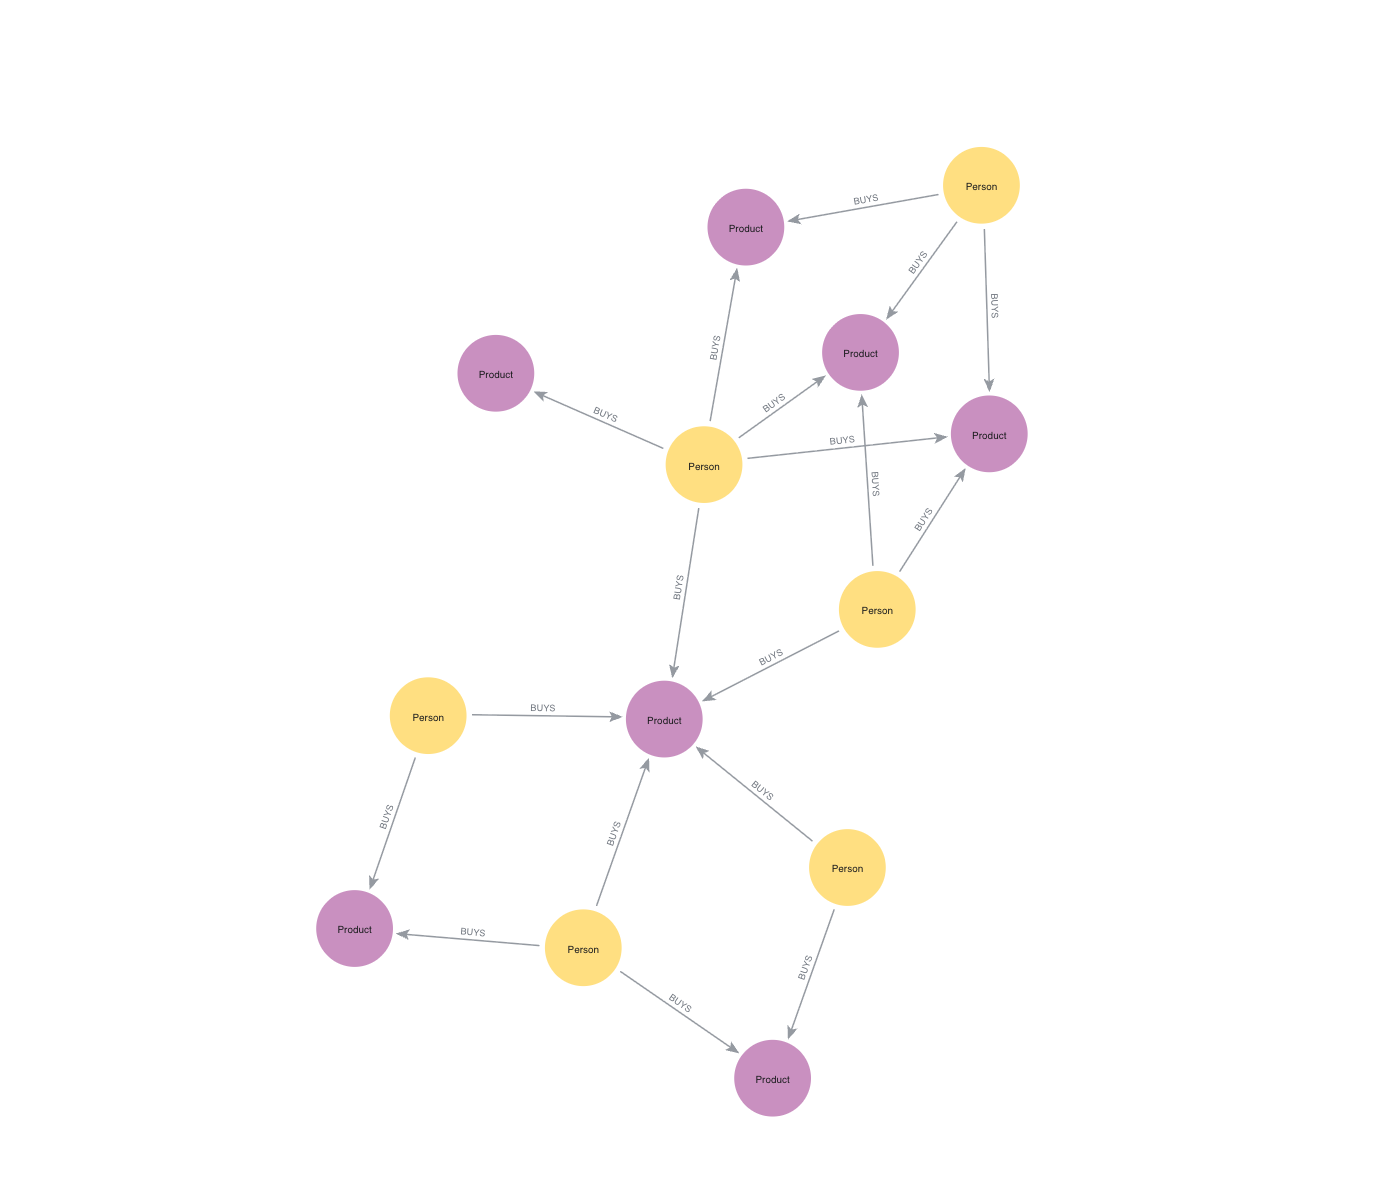
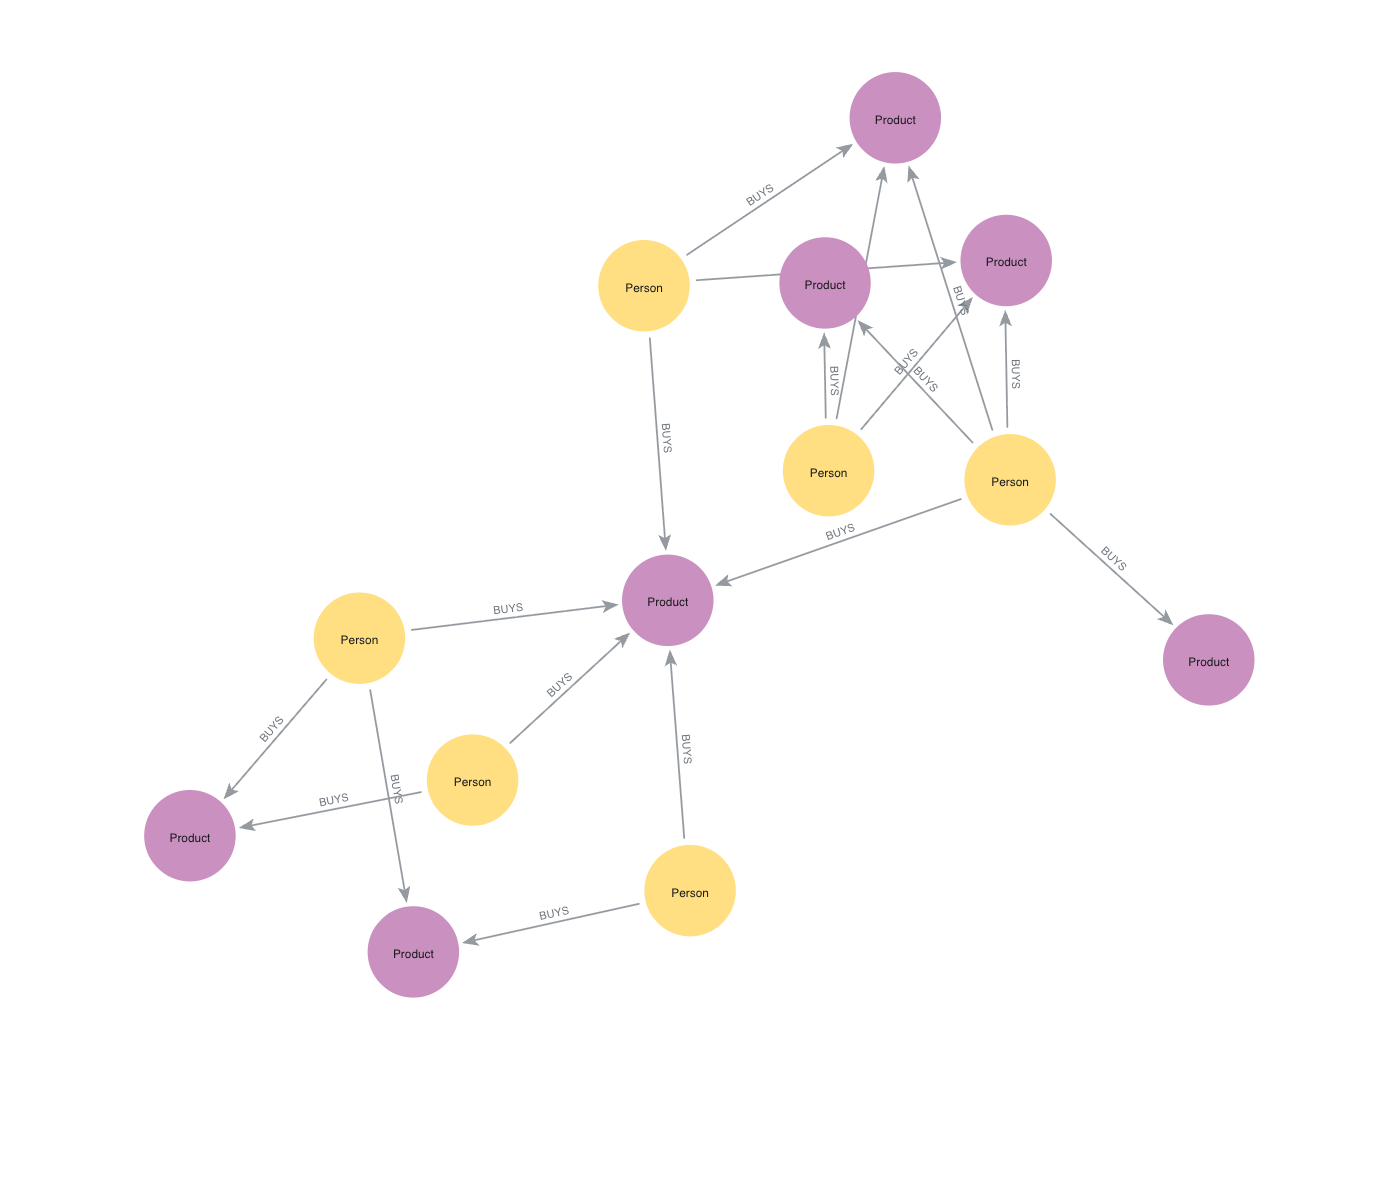
Build the README graph image from a GQL CREATE query
The example_graph spec now uses from_gql_create with the neo4j-example's
CREATE query instead of a live Neo4j database, so all docs images
regenerate without any database. Drops the now-unused env and teardown
machinery from the image specs.

diff --git a/scripts/regenerate_docs_images.py b/scripts/regenerate_docs_images.py
@@ -2,24 +2,23 @@
 """Regenerate the documentation images from the example graphs.
 
 For each image, a disposable JupyterLab server is booted, a distilled cell
-sequence reproducing the corresponding example notebook's data and styling is
-run in headless Chrome, and the rendered graph is saved via
-``GraphWidget.save()``. The images are copied back to their repository locations:
+sequence reproducing the corresponding example's data and styling is run in
+headless Chrome, and the rendered graph is saved via ``GraphWidget.save()``.
+The images are copied back to their repository locations:
 
 * ``docs/antora/modules/ROOT/images/getting-started-graph.svg``         - getting-started toy graph
 * ``docs/antora/modules/ROOT/images/getting-started-graph-colored.svg`` - same graph, colored by caption
-* ``examples/example_graph.png``                                        - README graph (neo4j-example)
+* ``examples/example_graph.png``                                        - README graph (neo4j-example data)
 
-The antora guide images are SVGs (the entire graph, resolution independent);
-the README image is a PNG of the current view. The README image needs a Neo4j
-instance (e.g. ``just local-neo4j-setup``) and is skipped when ``NEO4J_URI``
-is not set. Run from anywhere inside the repo.
+All graphs are built locally without a database: the antora guide images are
+SVGs of the entire graph (resolution independent, transparent background),
+and the README image is a PNG built from the neo4j-example's CREATE query via
+the ``from_gql_create`` GQL integration. Run from anywhere inside the repo.
 """
 
 from __future__ import annotations
 
 import argparse
-import os
 import shutil
 import struct
 import sys
@@ -59,48 +58,12 @@ relationships = [
 VG = VisualizationGraph(nodes=nodes, relationships=relationships)
 """
 
+# The example graph from examples/neo4j-example.ipynb, built without a
+# database via the GQL CREATE integration.
+_EXAMPLE_CREATE_CELLS = """\
+from neo4j_viz.gql_create import from_gql_create
 
-@dataclass(frozen=True)
-class ImageSpec:
-    """One docs image: how to build it and where it lives in the repository."""
-
-    name: str
-    target: Path
-    # Widget canvas size in pixels; for PNG output this is also the expected
-    # image size. SVG output covers the entire graph, so the widget size only
-    # needs to be large enough to mount the widget.
-    size: tuple[int, int]
-    fmt: str = "png"
-    required_env: tuple[str, ...] = ()
-    # Cells up to and including the one that displays the widget. The harness
-    # waits for the widget's canvas before running the generated save cell.
-    cells: tuple[str, ...] = ()
-    # Extra code lines run inside the save cell after the image was written
-    # (e.g. database cleanup); a failure also fails the spec.
-    teardown: tuple[str, ...] = ()
-
-    @property
-    def filename(self) -> str:
-        return f"{self.name}.{self.fmt}"
-
-
-def _neo4j_graph_cells() -> str:
-    return """\
-import os
-
-from neo4j import GraphDatabase, Result, RoutingControl
-from neo4j_viz.neo4j import from_neo4j
-
-URI = os.environ['NEO4J_URI']
-auth = (os.environ.get('NEO4J_USERNAME', 'neo4j'), os.environ.get('NEO4J_PASSWORD', 'password'))
-db = os.environ.get('NEO4J_DB', 'neo4j')
-
-driver = GraphDatabase.driver(URI, auth=auth)
-driver.verify_connectivity()
-
-# Start from a clean slate so repeated runs do not duplicate the example graph.
-driver.execute_query('MATCH (n:Person|Product) DETACH DELETE n RETURN count(n)', database_=db)
-driver.execute_query(
+VG = from_gql_create(
     \"\"\"
     CREATE
      (dan:Person {name: 'Dan'}),
@@ -141,20 +104,29 @@ driver.execute_query(
 
      (elsa)-[:BUYS {amount: 3}]->(chocolate),
      (elsa)-[:BUYS {amount: 3}]->(milk)
-    \"\"\",
-    database_=db,
+    \"\"\"
 )
-
-result = driver.execute_query(
-    'MATCH (n)-[r]->(m) RETURN n,r,m',
-    database_=db,
-    routing_=RoutingControl.READ,
-    result_transformer_=Result.graph,
-)
-print(f'Result graph has: {len(result.nodes)} nodes, {len(result.relationships)} relationships')
-
-VG = from_neo4j(result)
 """
+
+
+@dataclass(frozen=True)
+class ImageSpec:
+    """One docs image: how to build it and where it lives in the repository."""
+
+    name: str
+    target: Path
+    # Widget canvas size in pixels; for PNG output this is also the expected
+    # image size. SVG output covers the entire graph, so the widget size only
+    # needs to be large enough to mount the widget.
+    size: tuple[int, int]
+    fmt: str = "png"
+    # Cells up to and including the one that displays the widget. The harness
+    # waits for the widget's canvas before running the generated save cell.
+    cells: tuple[str, ...] = ()
+
+    @property
+    def filename(self) -> str:
+        return f"{self.name}.{self.fmt}"
 
 
 def _render_cell(size: tuple[int, int]) -> str:
@@ -165,9 +137,6 @@ def _render_cell(size: tuple[int, int]) -> str:
 
 
 def _save_cell(spec: ImageSpec) -> str:
-    teardown = "\n".join(f"    {line}" for line in spec.teardown)
-    if teardown:
-        teardown += "\n"
     filename = spec.filename
     if spec.fmt == "svg":
         # SVG export covers the entire graph and defaults to a transparent
@@ -187,7 +156,7 @@ from pathlib import Path
 try:
     {save_call}
     {output_check}
-{teardown}    Path('{DONE_MARKER}').write_text('ok')
+    Path('{DONE_MARKER}').write_text('ok')
 except Exception:
     Path('{ERROR_MARKER}').write_text(traceback.format_exc())
 """
@@ -241,12 +210,7 @@ def _specs() -> list[ImageSpec]:
             name="example_graph",
             target=GIT_ROOT / "examples" / "example_graph.png",
             size=readme_size,
-            required_env=("NEO4J_URI",),
-            cells=(_neo4j_graph_cells(), _render_cell(readme_size)),
-            teardown=(
-                "driver.execute_query('MATCH (n:Person|Product) DETACH DELETE n RETURN count(n)', database_=db)",
-                "driver.close()",
-            ),
+            cells=(_EXAMPLE_CREATE_CELLS, _render_cell(readme_size)),
         ),
     ]
 
@@ -278,14 +242,6 @@ def main() -> int:
         jupyter_server(Path(tmp)) as server,
     ):
         for spec in specs:
-            missing = [var for var in spec.required_env if not os.environ.get(var)]
-            if missing:
-                print(
-                    f"SKIP {spec.name}: missing environment variables {missing}",
-                    flush=True,
-                )
-                continue
-
             print(f"Regenerating {spec.target.relative_to(GIT_ROOT)} ...", flush=True)
             try:
                 run_notebook_in_browser(server, [*spec.cells, _save_cell(spec)])
